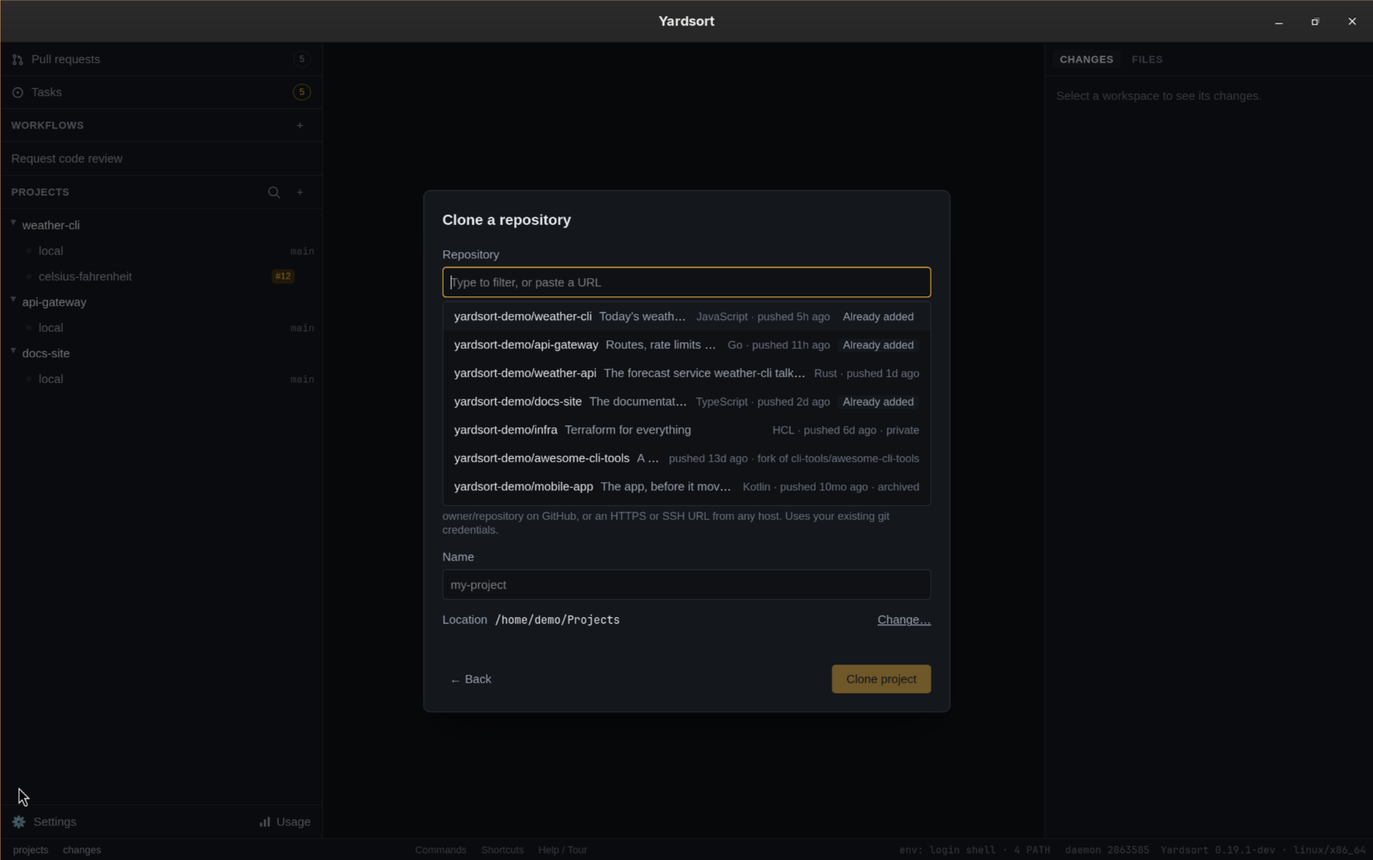
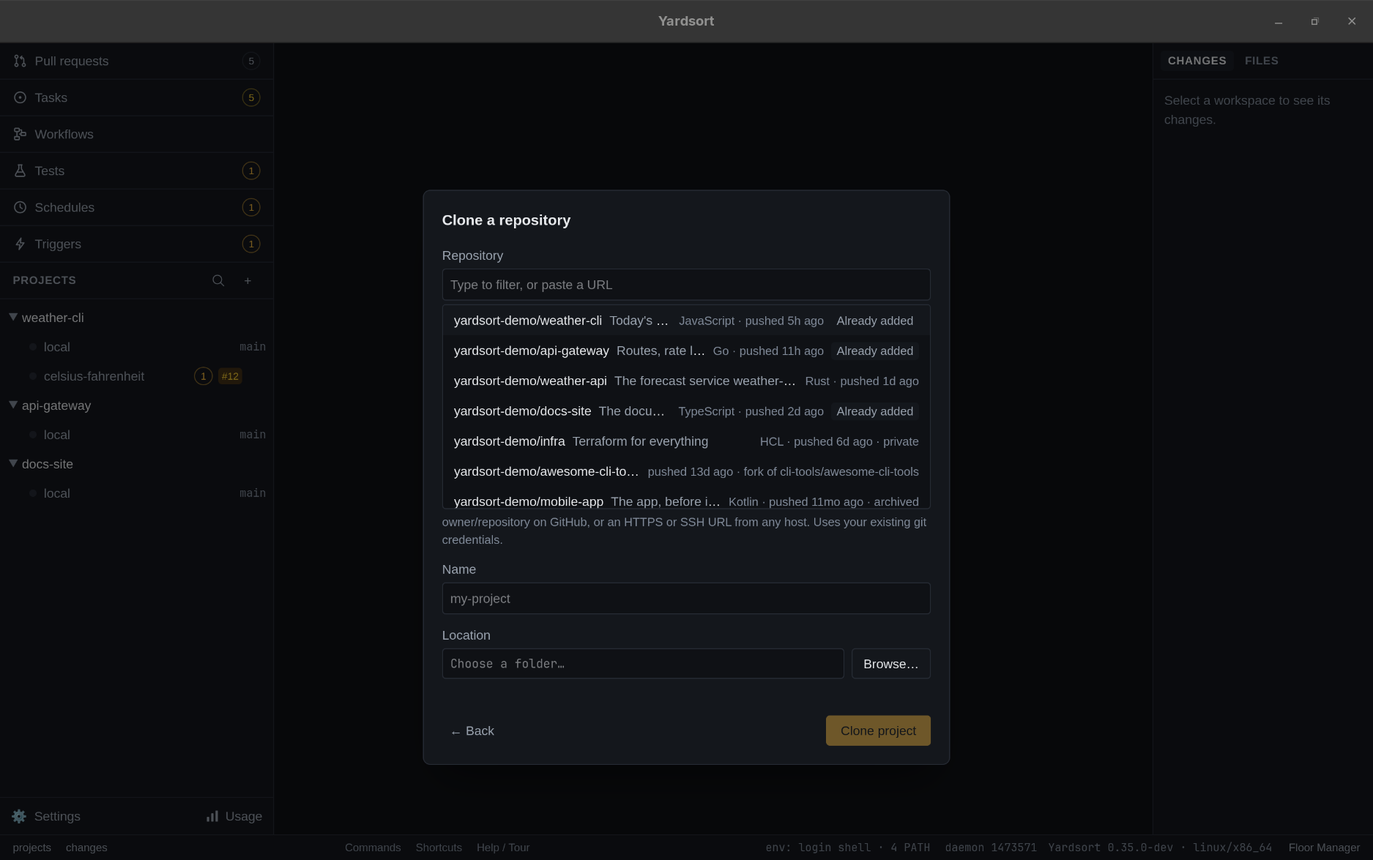
Docs: the phone app gets a guide and a section in the README and on the website; screenshots retaken
The phone app is invite only for now and will be in the app stores in a few
weeks. A new guide, docs/guide/phone.md, says what it does, what it needs and
where to get it. The README has an "On your phone" section, the website's
landing page has one after Usage, and every "not in the app stores yet" line
now says invite only. The four phone pictures are exports of the Figma frames,
with sample names.

The 20 app screenshots that predated the larger interface are retaken at the
set's size, from a throwaway profile and demo repositories. Four captions
that no longer matched their picture are corrected.

scripts/screenshots.sh: the demo repositories' push dates count back from
today, and a new `usage` command writes a month of made-up token logs for the
Usage view.

diff --git a/website/src/components/landing/phone.tsx b/website/src/components/landing/phone.tsx
@@ -1,0 +1,87 @@
+import Link from "next/link";
+
+const SCREENS = [
+  {
+    name: "phone-computer",
+    alt: "The phone app: a computer's projects and workspaces, each with its branch, running agents and pull request",
+    title: "Your workspaces",
+    body: "Every project on the computer, each workspace with its branch, the agents running in it and how its pull request stands.",
+  },
+  {
+    name: "phone-chat",
+    alt: "The phone app: a conversation with Claude Code as a chat, with its steps folded and a field to type a message",
+    title: "A conversation, as a chat",
+    body: "What you asked, the agent's steps folded to one line, and what it wrote back. Type a message, stop it, or give it a picture.",
+  },
+  {
+    name: "phone-permission",
+    alt: "The phone app: Claude Code asks to run a command, with Deny and Allow once",
+    title: "Answer what it asks",
+    body: "When Claude Code asks to run a command, allow it once or deny it. A smoke test that waits for you can be let run the same way.",
+  },
+  {
+    name: "phone-pull-request",
+    alt: "The phone app: a pull request's checks by name, its review and Open on GitHub",
+    title: "Pull requests",
+    body: "The checks by name, the review and conflicts, as the computer last read them. Read-only.",
+  },
+];
+
+export function Phone() {
+  return (
+    <section
+      id="phone"
+      aria-labelledby="h-phone"
+      className="mx-auto max-w-[1120px] px-5 pt-[120px] md:px-8"
+    >
+      <p className="mb-2.5 font-mono text-[12.5px] text-accent">On your phone</p>
+      <h2
+        id="h-phone"
+        className="max-w-[720px] text-[26px] leading-[1.15] font-medium tracking-[-0.02em] md:text-[32px]"
+      >
+        Your agents, away from your desk
+      </h2>
+      <p className="mt-4 max-w-[720px] text-[17px] text-muted">
+        Yardsort&apos;s phone app reaches the agents on your computer through a server you sign in
+        to. They run on the computer, so they keep going whatever happens to the connection, and a
+        phone gets in only after you say yes at the computer.
+      </p>
+      <p className="mt-4 max-w-[720px] rounded-[10px] border border-line bg-surface px-4 py-3 text-[15px]">
+        <span className="font-medium">Invite only for now.</span>{" "}
+        <span className="text-muted">
+          The app will be in the app stores in a few weeks.{" "}
+          <a href="mailto:hello@yardsort.sh" className="link">
+            Write to us
+          </a>{" "}
+          if you would like to try it before then.
+        </span>
+      </p>
+      <div className="mt-8 grid grid-cols-2 gap-x-6 gap-y-8 md:grid-cols-4">
+        {SCREENS.map((screen) => (
+          <div key={screen.name}>
+            <div className="overflow-hidden rounded-[22px] border border-line bg-surface md:rounded-[26px]">
+              {/* eslint-disable-next-line @next/next/no-img-element -- static export, images are plain files */}
+              <img
+                src={`/docs-images/${screen.name}.png`}
+                alt={screen.alt}
+                width={786}
+                height={1704}
+                loading="lazy"
+                className="block h-auto w-full"
+              />
+            </div>
+            <h3 className="mt-4 text-[17px] font-medium">{screen.title}</h3>
+            <p className="mt-1.5 text-[15px] text-muted">{screen.body}</p>
+          </div>
+        ))}
+      </div>
+      <p className="mt-6 text-sm text-muted">
+        Part of Remote, which is still under development and off until you turn it on. Whoever runs
+        the server can see what passes through it.{" "}
+        <Link href="/docs/guide/phone/" className="link">
+          Read about the phone app →
+        </Link>
+      </p>
+    </section>
+  );
+}

diff --git a/website/src/components/landing/also.tsx b/website/src/components/landing/also.tsx
@@ -59,7 +59,7 @@ const POINTS = [
   },
   {
     title: "Remote, still under development",
-    body: "Reach this computer's workspaces and terminals from your phone, read each conversation as a chat at the phone's width, answer Claude Code's permission questions, let a waiting smoke test run, see a workspace's pull request with its checks and reviews, fold a project away, and start new ones there, through a Yardsort server you sign in to. It stays off, and connects to nothing, until you turn it on, and a device gets in only if you say yes at this computer. Whoever runs the server can see what passes through it, and the phone app is not in the app stores yet. Expect it to change until the whole plan is finished. A Linux computer with no screen, such as a server you reach over SSH, can be one your phone reaches too, with yardsort-host, installed with one line or run from a container image that comes with the tools agents use; its agents keep running when the host restarts, and when a reboot ends them, ys session resume brings their conversations back. The desktop app can reach another computer the same way: its projects and workspaces sit in the sidebar like your own, with its terminals to watch and, once you take control, to type into, and you can start work or resume a conversation there. A workspace there shows its changes and files, read-only, and you can commit, push, and open or merge its pull request, which that computer does as itself. Turn on Sync for a project and your computers share it: its approved notes reach the agents on each, and each lists the others' workspaces, with Check out here to bring one's branch over. A project's files, its path and its terminals never sync.",
+    body: "Reach this computer's workspaces and terminals from your phone, read each conversation as a chat at the phone's width, answer Claude Code's permission questions, let a waiting smoke test run, see a workspace's pull request with its checks and reviews, fold a project away, and start new ones there, through a Yardsort server you sign in to. It stays off, and connects to nothing, until you turn it on, and a device gets in only if you say yes at this computer. Whoever runs the server can see what passes through it, and the phone app is invite only until it reaches the app stores in a few weeks. Expect it to change until the whole plan is finished. A Linux computer with no screen, such as a server you reach over SSH, can be one your phone reaches too, with yardsort-host, installed with one line or run from a container image that comes with the tools agents use; its agents keep running when the host restarts, and when a reboot ends them, ys session resume brings their conversations back. The desktop app can reach another computer the same way: its projects and workspaces sit in the sidebar like your own, with its terminals to watch and, once you take control, to type into, and you can start work or resume a conversation there. A workspace there shows its changes and files, read-only, and you can commit, push, and open or merge its pull request, which that computer does as itself. Turn on Sync for a project and your computers share it: its approved notes reach the agents on each, and each lists the others' workspaces, with Check out here to bring one's branch over. A project's files, its path and its terminals never sync.",
   },
   {
     title: "Light",

diff --git a/website/src/lib/docs.ts b/website/src/lib/docs.ts
@@ -141,6 +141,12 @@ export const DOCS_NAV: DocSection[] = [
           "Reach this computer from your phone or another computer through a Yardsort server, and sync a project between your computers. The phone can be told about tasks, reviews, failures, desktop updates, and workflow questions, and can answer or approve a workflow while the computer is online. Still under development, and off until you turn it on.",
       },
       {
+        slug: "guide/phone",
+        title: "The phone app",
+        description:
+          "Yardsort's phone app reaches the agents on your computer: workspaces, pull requests, conversations as a chat, permission questions and new work. Invite only for now, in the app stores in a few weeks.",
+      },
+      {
         slug: "guide/headless-host",
         title: "A computer with no screen",
         description:

diff --git a/website/src/app/page.tsx b/website/src/app/page.tsx
@@ -7,6 +7,7 @@ import { Hero } from "@/components/landing/hero";
 import { Ideas } from "@/components/landing/ideas";
 import { Install } from "@/components/landing/install";
 import { OpenSource } from "@/components/landing/open-source";
+import { Phone } from "@/components/landing/phone";
 import { Questions } from "@/components/landing/questions";
 import { Usage } from "@/components/landing/usage";
 import { JsonLd } from "@/components/json-ld";
@@ -23,6 +24,7 @@ export default function Home() {
       <Install />
       <Ideas />
       <Usage />
+      <Phone />
       <Cli />
       <Assist />
       <Harnesses />

diff --git a/website/src/components/landing/assist.tsx b/website/src/components/landing/assist.tsx
@@ -77,7 +77,7 @@ export function Assist() {
         <div className="md:order-1">
           <Shot
             name="assist"
-            alt="Settings → Assist: the API key, its switches and the three thresholds"
+            alt="Settings → Assist: the API key and the switches for what Assist may do"
           />
           <dl className="mt-6 grid gap-2.5 text-[15px]">
             {BADGES.map((item) => (

diff --git a/README.md b/README.md
@@ -199,7 +199,8 @@ It is modeled on tools like Conductor and Superset, with the requirement they do
   and a project folds to put its workspaces away.
   Installing a desktop update stays on the computer.
   Whoever runs the server
-  can see what passes through it, and the phone app is not in the app stores yet. Expect it to
+  can see what passes through it, and [the phone app](docs/guide/phone.md) is invite only until it
+  reaches the app stores in a few weeks. Expect it to
   change until the whole plan is finished. See [Remote](docs/guide/remote.md). A Linux computer with
   no screen, such as a server you reach over SSH, can be one your phone reaches too, with
   `yardsort-host`, installed with one line or run from a container image that comes with the tools
@@ -502,6 +503,23 @@ ys event emit migration-written --note "0042 adds users.last_seen"
 
 See [Triggers](docs/guide/triggers.md).
 
+## On your phone
+
+![The phone app: a computer's workspaces with their pull requests, one pull request's checks, a conversation as a chat, and an agent's permission question](docs/images/phone.png)
+
+Yardsort has a phone app that reaches the agents on your computer. See what each workspace is
+doing and how its pull request stands, read a conversation as a chat at the phone's width, answer
+Claude Code when it asks to run a command, let a waiting smoke test run, and start new work, away
+from your desk. The agents run on the computer, so they keep going whatever happens to the
+connection. The phone gets in only through a server you sign in to, and only after you say yes at
+the computer.
+
+**The app is invite only for now, and will be in the app stores in a few weeks.**
+[Write to us](mailto:hello@yardsort.sh) if you would like to try it before then. It is part of
+[Remote](docs/guide/remote.md), which is still under development.
+
+See [The phone app](docs/guide/phone.md).
+
 ## Supported agents
 
 Yardsort starts any coding agent that runs in a terminal. These work out of the box:
@@ -578,7 +596,7 @@ what the number means. That keeps the interesting part in code: the questions ar
 property each), the thresholds live in your settings, and the model is pinned (`jev-1.13.0`) so a
 new version cannot quietly move under them.
 
-![Settings → Assist, with the API key, its switches and the three thresholds](docs/images/assist.png)
+![Settings → Assist, with the API key and the switches for what Assist may do](docs/images/assist.png)
 
 **On the changes list**, shortly after an agent stops writing, each changed file is checked
 against what the workspace was asked to do, and flagged files get a badge:
@@ -621,31 +639,32 @@ says no.
 
 ## Documentation
 
-|                                                                                                  |                                                                                      |
-| ------------------------------------------------------------------------------------------------ | ------------------------------------------------------------------------------------ |
-| [Quick start](docs/quick-start.md)                                                               | Download to first agent in five minutes                                              |
-| [Projects](docs/guide/projects.md) · [Workspaces](docs/guide/workspaces.md)                      | Repositories, branches, worktrees, archiving                                         |
-| [Migrate from Conductor](docs/guide/migrate-from-conductor.md)                                   | Import existing local worktrees and reconfigure scripts by hand                      |
-| [Terminals & sessions](docs/guide/terminals-and-sessions.md)                                     | Tabs, status dots, notifications, resume and fork, handing off, shared conversations |
-| [Changes & files](docs/guide/changes-and-files.md)                                               | Reviewing what an agent did                                                          |
-| [Activity](docs/guide/activity.md)                                                               | What ran, what each agent reported, who wrote which file                             |
-| [Memory](docs/guide/memory.md)                                                                   | Lessons for a project's agents, approved by you                                      |
-| [Outcomes](docs/guide/outcomes.md)                                                               | What became of each attempt, and each agent's history                                |
-| [Pull requests](docs/guide/pull-requests.md)                                                     | Every project's pull requests: filter, start a workspace, merge                      |
-| [Tasks](docs/guide/tasks.md)                                                                     | Every project's GitHub issues: which need an answer, hand one to an agent            |
-| [Workflows](docs/guide/workflows.md)                                                             | Named agent work in YAML: the built-in code review, your own                         |
-| [Smoke tests](docs/guide/smoke-tests.md)                                                         | A file an agent writes and Yardsort runs: steps, browser, approval, the Tests view   |
-| [Schedules](docs/guide/schedules.md)                                                             | A workflow or a smoke test at a set time, or on a routine                            |
-| [Triggers](docs/guide/triggers.md)                                                               | A workflow or a smoke test when something happens: done, a review, failing checks    |
-| [Remote](docs/guide/remote.md)                                                                   | Your phone and your other computers, through a server. Still under development       |
-| [A computer with no screen](docs/guide/headless-host.md)                                         | `yardsort-host`: a Linux server your phone reaches. Still under development          |
-| [Usage](docs/guide/usage.md)                                                                     | Tokens spent and their cost; CPU and memory per agent                                |
-| [Updates](docs/guide/updates.md)                                                                 | How new versions reach you                                                           |
-| [Settings & harnesses](docs/guide/settings.md)                                                   | Configure agents, add your own                                                       |
-| [Assist](docs/guide/assist.md)                                                                   | Optional Jev checks on changes and composer hints                                    |
-| [The `ys` command line](docs/guide/cli.md)                                                       | Installing it; workspaces, agents, `attach`, `logs`, handoffs                        |
-| [Keyboard shortcuts](docs/guide/shortcuts.md) · [Troubleshooting](docs/guide/troubleshooting.md) |                                                                                      |
-| [Design docs](docs/design/README.md)                                                             | Architecture, harness model, roadmap, open questions                                 |
+|                                                                                                  |                                                                                       |
+| ------------------------------------------------------------------------------------------------ | ------------------------------------------------------------------------------------- |
+| [Quick start](docs/quick-start.md)                                                               | Download to first agent in five minutes                                               |
+| [Projects](docs/guide/projects.md) · [Workspaces](docs/guide/workspaces.md)                      | Repositories, branches, worktrees, archiving                                          |
+| [Migrate from Conductor](docs/guide/migrate-from-conductor.md)                                   | Import existing local worktrees and reconfigure scripts by hand                       |
+| [Terminals & sessions](docs/guide/terminals-and-sessions.md)                                     | Tabs, status dots, notifications, resume and fork, handing off, shared conversations  |
+| [Changes & files](docs/guide/changes-and-files.md)                                               | Reviewing what an agent did                                                           |
+| [Activity](docs/guide/activity.md)                                                               | What ran, what each agent reported, who wrote which file                              |
+| [Memory](docs/guide/memory.md)                                                                   | Lessons for a project's agents, approved by you                                       |
+| [Outcomes](docs/guide/outcomes.md)                                                               | What became of each attempt, and each agent's history                                 |
+| [Pull requests](docs/guide/pull-requests.md)                                                     | Every project's pull requests: filter, start a workspace, merge                       |
+| [Tasks](docs/guide/tasks.md)                                                                     | Every project's GitHub issues: which need an answer, hand one to an agent             |
+| [Workflows](docs/guide/workflows.md)                                                             | Named agent work in YAML: the built-in code review, your own                          |
+| [Smoke tests](docs/guide/smoke-tests.md)                                                         | A file an agent writes and Yardsort runs: steps, browser, approval, the Tests view    |
+| [Schedules](docs/guide/schedules.md)                                                             | A workflow or a smoke test at a set time, or on a routine                             |
+| [Triggers](docs/guide/triggers.md)                                                               | A workflow or a smoke test when something happens: done, a review, failing checks     |
+| [Remote](docs/guide/remote.md)                                                                   | Your phone and your other computers, through a server. Still under development        |
+| [The phone app](docs/guide/phone.md)                                                             | What it does and what it needs. Invite only for now, in the app stores in a few weeks |
+| [A computer with no screen](docs/guide/headless-host.md)                                         | `yardsort-host`: a Linux server your phone reaches. Still under development           |
+| [Usage](docs/guide/usage.md)                                                                     | Tokens spent and their cost; CPU and memory per agent                                 |
+| [Updates](docs/guide/updates.md)                                                                 | How new versions reach you                                                            |
+| [Settings & harnesses](docs/guide/settings.md)                                                   | Configure agents, add your own                                                        |
+| [Assist](docs/guide/assist.md)                                                                   | Optional Jev checks on changes and composer hints                                     |
+| [The `ys` command line](docs/guide/cli.md)                                                       | Installing it; workspaces, agents, `attach`, `logs`, handoffs                         |
+| [Keyboard shortcuts](docs/guide/shortcuts.md) · [Troubleshooting](docs/guide/troubleshooting.md) |                                                                                       |
+| [Design docs](docs/design/README.md)                                                             | Architecture, harness model, roadmap, open questions                                  |
 
 ## Build from source
 

diff --git a/docs/guide/phone.md b/docs/guide/phone.md
@@ -1,0 +1,58 @@
+# The phone app
+
+> **Invite only for now.** A small group is trying the app, and it will be in the app stores in a
+> few weeks. To try it before then, [write to us](mailto:hello@yardsort.sh). It is part of
+> [Remote](remote.md), which is still under development: expect it to change.
+
+![The phone app: a computer's workspaces with their pull requests, one pull request's checks, a conversation as a chat, and an agent's permission question](../images/phone.png)
+
+Yardsort on your phone reaches the agents on your computer. See what each workspace is doing, read a
+conversation, answer what an agent asks, and start new work, away from your desk. The agents run on
+the computer, not on the phone, so they keep going whatever happens to the connection.
+
+## What you can do with it
+
+- **See a computer's workspaces.** Each project with its workspaces, their branches, how many
+  agents are running and each one's pull request. A project folds to put its workspaces away. See
+  [A computer's workspaces](remote.md#a-computers-workspaces).
+- **Read a conversation as a chat.** What you asked, the agent's steps folded to one line, and what
+  it wrote back, in one column at the phone's width. Type a message, stop the agent, or give it a
+  picture. **Terminal** shows the terminal itself. See [Chat on the phone](remote.md#chat-on-the-phone).
+- **Answer a permission question.** When Claude Code asks to run a command, the chat shows it with
+  **Allow once** and **Deny**. See
+  [When an agent asks for a permission](remote.md#when-an-agent-asks-for-a-permission).
+- **Let a smoke test run.** A test that waits for your approval shows its steps, with **Run** and
+  **Don't run**. See [When a smoke test waits for you](remote.md#when-a-smoke-test-waits-for-you).
+- **Follow pull requests.** A badge on each workspace, a card with the checks by name and the
+  review, and a list of the open, merged and closed ones over every project. Read-only. See
+  [Pull requests on the phone](remote.md#pull-requests-on-the-phone).
+- **Start work.** A new workspace, another agent in one you have, or a conversation that ended,
+  resumed. See [Starting work from the phone](remote.md#starting-work-from-the-phone).
+- **Be told when something needs you.** A task that moved, a review, a failed run, an agent or a
+  workflow waiting for an answer. The notification opens that item. See
+  [Notifications](remote.md#notifications).
+
+## What it needs
+
+1. **Yardsort on your computer, with Remote on.** Remote is off until you turn it on in
+   **Settings → Remote**, where you sign in to a Yardsort server. See
+   [Turning it on](remote.md#turning-it-on).
+2. **The app on your phone**, signed in to the same server.
+3. **A yes at the computer.** **Pair a device** on the computer shows a code. Enter it on the phone,
+   then say yes at the computer and choose whether the phone may only watch or also type, and which
+   projects it reaches. See [Letting a device in](remote.md#letting-a-device-in).
+
+The phone reaches your computer through that server. **Whoever runs the server can see what passes
+through it**, so use one you run yourself or one run by someone you trust with that: see
+[What the server can see](remote.md#what-the-server-can-see).
+
+A Linux server with no screen can be the computer your phone reaches too: see
+[A computer with no screen](headless-host.md).
+
+## Where to get it
+
+Not in the app stores yet. It is invite only while a small group tries it, and it will be in the
+stores in a few weeks. [Write to us](mailto:hello@yardsort.sh) if you would like to try it early.
+
+The app is open source, like the rest of Yardsort. Its code is in
+[`apps/mobile`](https://github.com/joaoh82/yardsort/tree/main/apps/mobile), under the MPL-2.0.

diff --git a/docs/README.md b/docs/README.md
@@ -34,6 +34,7 @@ walks through both tabs and explains what the local figures include.
 | [Triggers](guide/triggers.md)                                 | Start a workflow or a smoke test when an agent says it is done, a review comes in, the checks fail, a run ends or a custom event is raised; the Triggers view, the composer's presets, `ys trigger`, `ys event emit` |
 | [Floor Manager](guide/floor-manager.md)                       | One agent that sees every project. A setting chooses read only, ask first or trusted, and `ys` enforces it                                                                                                           |
 | [Remote](guide/remote.md)                                     | Reaching this computer from your phone or another computer through a server, and syncing a project between your computers. Still under development, and off until you turn it on                                     |
+| [The phone app](guide/phone.md)                               | What the phone app does, what it needs, and where to get it: invite only for now, in the app stores in a few weeks                                                                                                   |
 | [A computer with no screen](guide/headless-host.md)           | `yardsort-host`: a Linux server as a host your phone reaches; signing in, pairing at a terminal, `ys` for projects                                                                                                   |
 | [Usage](guide/usage.md)                                       | Tokens your agents spent and what they would cost; CPU and memory per agent, live                                                                                                                                    |
 | [Updates](guide/updates.md)                                   | How Yardsort finds and installs new versions, and which copies can                                                                                                                                                   |

diff --git a/docs/guide/projects.md b/docs/guide/projects.md
@@ -16,7 +16,7 @@ Click **×** to clear the filter and show all projects again. Press **Escape** i
 clear it and return to the Projects heading. If nothing matches, the panel says so. The **+**
 button remains available while searching. When the field is empty, **×** closes it.
 
-![Searching five demo projects for weather shows weather-cli and weather-api, with a workspace open](../images/projects-search.png)
+![Searching the projects for weather leaves weather-cli and its workspaces, with one open](../images/projects-search.png)
 
 ## Adding a project
 
@@ -53,7 +53,7 @@ your GitHub account owns or collaborates on, most recently pushed first, each wi
 its language, when it was last pushed to, and whether it is private, archived or a fork of
 something.
 
-![The clone dialog: a list of the account's repositories under the Repository field, three of them marked Already added, one private, one a fork, one archived; the location remembered as a line](../images/clone-repository.png) The list comes from the [GitHub CLI](https://cli.github.com), logged in as you;
+![The clone dialog: a list of the account's repositories under the Repository field, three of them marked Already added, one private, one a fork, one archived; a name and a location below](../images/clone-repository.png) The list comes from the [GitHub CLI](https://cli.github.com), logged in as you;
 Yardsort holds no credential of its own.
 
 Type to narrow the list, by name or by description. **↑** and **↓** move through it, **Enter**

diff --git a/docs/guide/remote.md b/docs/guide/remote.md
@@ -1,8 +1,8 @@
 # Remote
 
 > **Remote is still under development, and will be until the whole plan for it is finished.** Expect it
-> to change. It stays off, and connects to nothing, unless you turn it on. The phone app is not in the
-> app stores yet.
+> to change. It stays off, and connects to nothing, unless you turn it on. [The phone app](phone.md)
+> is invite only for now, and will be in the app stores in a few weeks.
 
 Remote lets your phone reach the agents on this computer through a Yardsort server you sign in to. Look
 at a workspace, watch a terminal, or take control of one and type, away from your desk. A computer with no
@@ -526,8 +526,9 @@ second copy of Yardsort used to cause that. Now only one copy runs on a profile,
 
 ## The phone app
 
-It is in [`apps/mobile`](https://github.com/joaoh82/yardsort/tree/main/apps/mobile), and is not in the
-app stores yet. To run a server of your own, see the
+[The phone app](phone.md) says what it does and what it needs. It is invite only for now, and will
+be in the app stores in a few weeks. Its code is in
+[`apps/mobile`](https://github.com/joaoh82/yardsort/tree/main/apps/mobile). To run a server of your own, see the
 [self-host recipe](https://github.com/joaoh82/yardsort/tree/main/crates/server/self-host).
 
 ## Notifications

diff --git a/docs/guide/questions.md b/docs/guide/questions.md
@@ -64,8 +64,8 @@ failure. A file from a repository never runs until you have approved it, new or 
 
 ## Can I use Yardsort from my phone?
 
-Not as a finished feature yet. [Remote](remote.md) is still under development, and the phone app is
-not in the app stores. It stays off, and connects to nothing, until you turn it on in Settings, and
+Not as a finished feature yet. [Remote](remote.md) is still under development, and
+[the phone app](phone.md) is invite only for now: it will be in the app stores in a few weeks. Remote stays off, and connects to nothing, until you turn it on in Settings, and
 whoever runs the server you sign in to can see what passes through it.
 
 ## Will my agents keep running if I close the window?

diff --git a/docs/quick-start.md b/docs/quick-start.md
@@ -193,6 +193,8 @@ to reopen it with its conversation intact.
 - [Smoke tests](guide/smoke-tests.md) — the ten-minute check written as a file an agent runs
 - [Remote](guide/remote.md) — your phone and your other computers, through a server; still under
   development, and off until you turn it on
+- [The phone app](guide/phone.md) — what it does and what it needs; invite only for now, in the app
+  stores in a few weeks
 - [Usage](guide/usage.md) — tokens, estimated API costs, plan limits and live CPU and memory
 - [Settings & harnesses](guide/settings.md) — make an agent start the way you like
 - [Keyboard shortcuts](guide/shortcuts.md)
